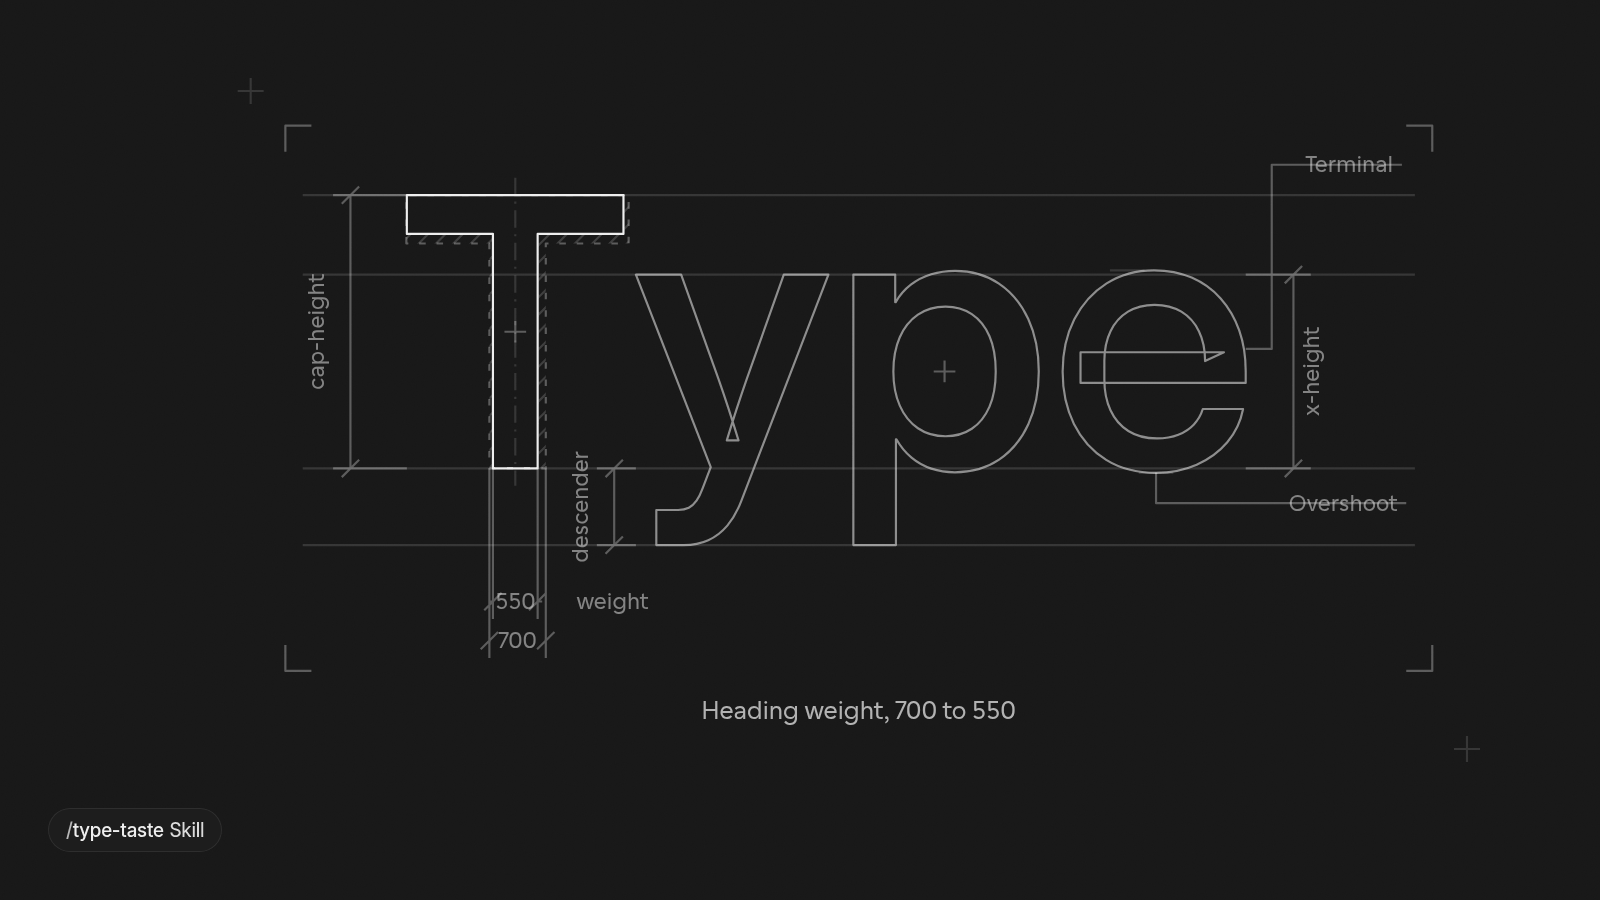
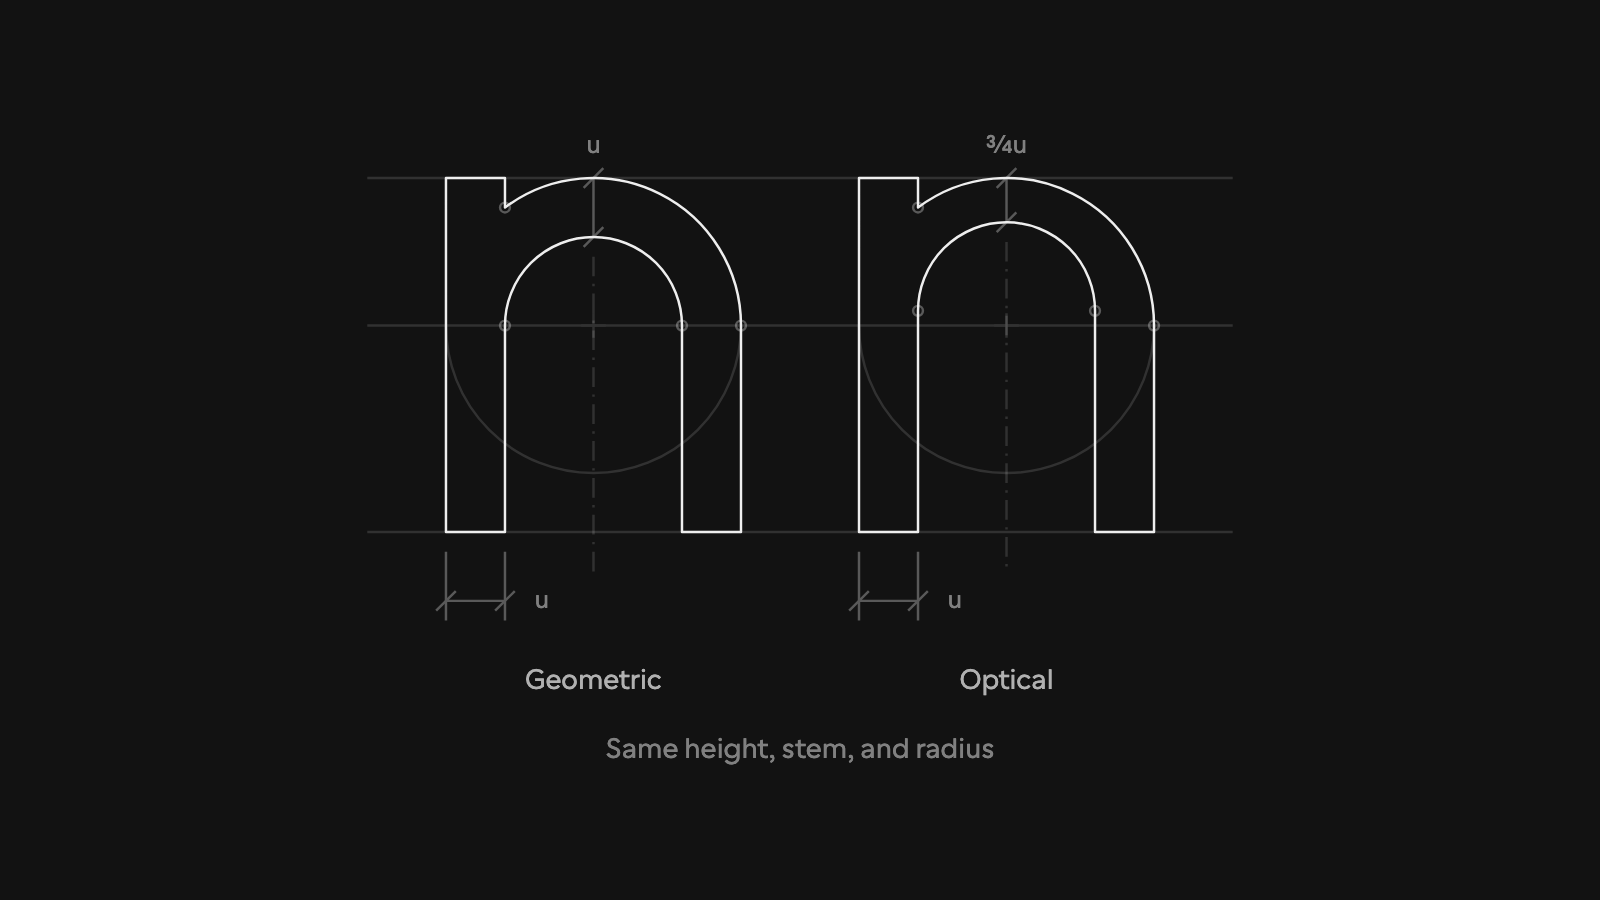
Replace the type-taste cover with the Plotter drawing

diff --git a/site/app/(docs)/[slug]/opengraph-image.tsx b/site/app/(docs)/[slug]/opengraph-image.tsx
@@ -19,7 +19,7 @@ export async function generateImageMetadata({ params }: { params: Promise<{ slug
 export default async function Image({ params }: { params: Promise<{ slug: string }> }) {
   const skill = getSkill((await params).slug);
   if (!skill) notFound();
-  // type-taste uses the Plotter letter-anatomy cover instead of the generated card.
+  // type-taste uses the Plotter cover instead of the generated card.
   if (skill.slug === "type-taste") {
     const file = await readFile(path.join(process.cwd(), "public/type-taste/og-1200x630.png"));
     return new Response(file, {
